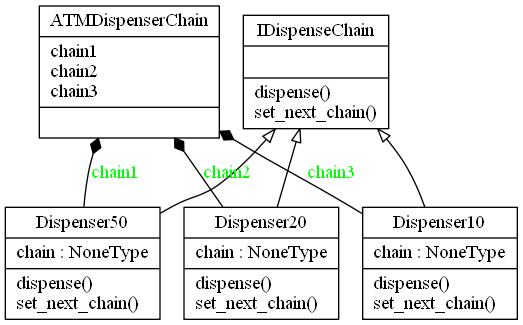
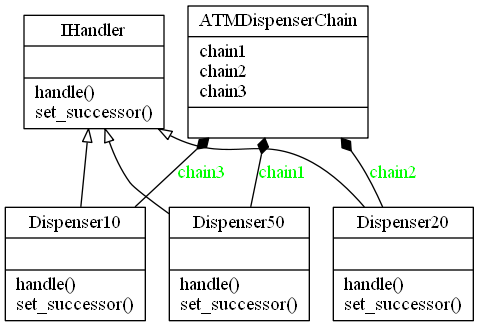
updates to chain of responsibility

Changed region(s): [[0.0, 0.0, 0.9937, 0.9846], [0.7015, 0.5538, 0.7307, 0.5846], [0.263, 0.5538, 0.2923, 0.5846]]

diff --git a/chain_of_responsibility/atm.py b/chain_of_responsibility/atm.py
@@ -1,103 +1,126 @@
 """Chain of Responsibility Pattern
 Chain of responsibility pattern is a behavioral pattern used to achieve loose coupling
 in software design.
-Example, a request from a client is passed to a chain of objects to process them. 
-The objects in the chain will decide themselves how the request is handled and/or 
-passed to the next processor in the chain.
+Example, a request from a client is passed to a chain of objects to process them.
+The objects in the chain will decide themselves how the request is handled and/or
+passed to the next successor in the chain.
 """
 
 from abc import ABCMeta, abstractstaticmethod
 
 
-class IDispenseChain(metaclass=ABCMeta):
+class IHandler(metaclass=ABCMeta):
+    """The Interface for handling requests."""
 
     @abstractstaticmethod
-    def set_next_chain(next_chain):
-        """Set the next processor in the chain"""
+    def set_successor(successor):
+        """Set the next handler in the chain"""
 
     @abstractstaticmethod
-    def dispense(currency):
-        """Dispense the amount"""
+    def handle(amount):
+        """Handle the event"""
 
 
-class Dispenser50(IDispenseChain):
+class Dispenser50(IHandler):
+    """ConcreteHandler
+    Dispense £50 notes if applicable,
+    otherwise continue to successor
+    """
 
     def __init__(self):
-        self.chain = None
+        self._successor = None
 
-    def set_next_chain(self, next_chain):
-        self.chain = next_chain
+    def set_successor(self, successor):
+        """Set the successor"""
+        self._successor = successor
 
-    def dispense(self, amount):
+    def handle(self, amount):
+        """Handle the dispensing of notes"""
         if amount >= 50:
             num = amount // 50
             remainder = amount % 50
             print(f"Dispensing {num} £50 note")
             if remainder != 0:
-                self.chain.dispense(remainder)
+                self._successor.handle(remainder)
         else:
-            self.chain.dispense(amount)
+            self._successor.handle(amount)
 
 
-class Dispenser20(IDispenseChain):
+class Dispenser20(IHandler):
+    """ConcreteHandler
+    Dispense £20 notes if applicable,
+    otherwise continue to successor
+    """
 
     def __init__(self):
-        self.chain = None
+        self._successor = None
 
-    def set_next_chain(self, next_chain):
-        self.chain = next_chain
+    def set_successor(self, successor):
+        """Set the successor"""
+        self._successor = successor
 
-    def dispense(self, amount):
+    def handle(self, amount):
+        """Handle the dispensing of notes"""
         if amount >= 20:
             num = amount // 20
             remainder = amount % 20
             print(f"Dispensing {num} £20 note")
             if remainder != 0:
-                self.chain.dispense(remainder)
+                self._successor.handle(remainder)
         else:
-            self.chain.dispense(amount)
+            self._successor.handle(amount)
 
 
-class Dispenser10(IDispenseChain):
+class Dispenser10(IHandler):
+    """ConcreteHandler
+    Dispense £10 notes if applicable,
+    otherwise continue to successor
+    """
 
     def __init__(self):
-        self.chain = None
+        self._successor = None
 
-    def set_next_chain(self, next_chain):
-        self.chain = next_chain
+    def set_successor(self, successor):
+        """Set the successor"""
+        self._successor = successor
 
-    def dispense(self, amount):
+    def handle(self, amount):
+        """Handle the dispensing of notes"""
         if amount >= 10:
             num = amount // 10
             remainder = amount % 10
             print(f"Dispensing {num} £10 note")
             if remainder != 0:
-                self.chain.dispense(remainder)
+                self._successor.handle(remainder)
         else:
-            self.chain.dispense(amount)
+            self._successor.handle(amount)
 
 
-class ATMDispenserChain:
+class ATMDispenserChain: # pylint: disable=too-few-public-methods
+    """The Chain Client"""
 
     def __init__(self):
-        # initialize the chain
-
+        # initialize the successor chain
         self.chain1 = Dispenser50()
         self.chain2 = Dispenser20()
         self.chain3 = Dispenser10()
 
         # set the chain of responsibility
-        self.chain1.set_next_chain(self.chain2)
-        self.chain2.set_next_chain(self.chain3)
+        # The Client may compose chains once or
+        # the hadler can set them dynamically at
+        # handle time
+        self.chain1.set_successor(self.chain2)
+        self.chain2.set_successor(self.chain3)
 
 
 if __name__ == "__main__":
 
     ATM = ATMDispenserChain()
-    
-    print("Enter amount to withdrawal")
-    AMOUNT = int(input())
-    if AMOUNT % 10 != 0:
-        print("Amount should be in multiple of 10s.")
+
+    AMOUNT = int(input("Enter amount to withdrawal : "))
+    if AMOUNT < 10 or AMOUNT % 10 != 0:
+        print("Amount should be positive and in multiple of 10s.")
+        exit()
     # process the request
-    ATM.chain1.dispense(AMOUNT)
+    ATM.chain1.handle(AMOUNT)
+    print("Now go spoil yourself")

diff --git a/chain_of_responsibility/README.md b/chain_of_responsibility/README.md
@@ -6,8 +6,33 @@ Example, a request from a client is passed to a chain of objects to process them
 The objects in the chain will decide themselves how the request is handled and/or 
 passed to the next processor in the chain.
 
-![Chain of Responsibility UML Diagram in the context of an ATM](atm.png)
+## Chain of Responsibility UML Diagram
+![Chain of Responsibility UML Diagram](chain_of_responsibility.png)
 
+
+## Chain of Responsibility UML Diagram in the context of an ATM
+![Chain of Responsibility UML Diagram in the context of an ATM](atm.png)
+In the ATM example, the chain is created to dispense an amount of £50, then £20s and then £10s in order.
+The successor chain is hardcoded in the chain client. 
+
+```python
+def __init__(self):
+    # initialize the successor chain
+    self.chain1 = Dispenser50()
+    self.chain2 = Dispenser20()
+    self.chain3 = Dispenser10()
+
+    # set the chain of responsibility
+    # The Client may compose chains once or
+    # the hadler can set them dynamically at
+    # handle time
+    self.chain1.set_successor(self.chain2)
+    self.chain2.set_successor(self.chain3)
+
+```
+You also have the option to set the next successor on logic at handle time.
+
+## Output
 ```bash
 $ python atm.py
 Enter amount to withdrawal
@@ -15,4 +40,5 @@ Enter amount to withdrawal
 Dispensing 2 £50 note
 Dispensing 1 £20 note
 Dispensing 1 £10 note
+Go spoil yourself
 ```
